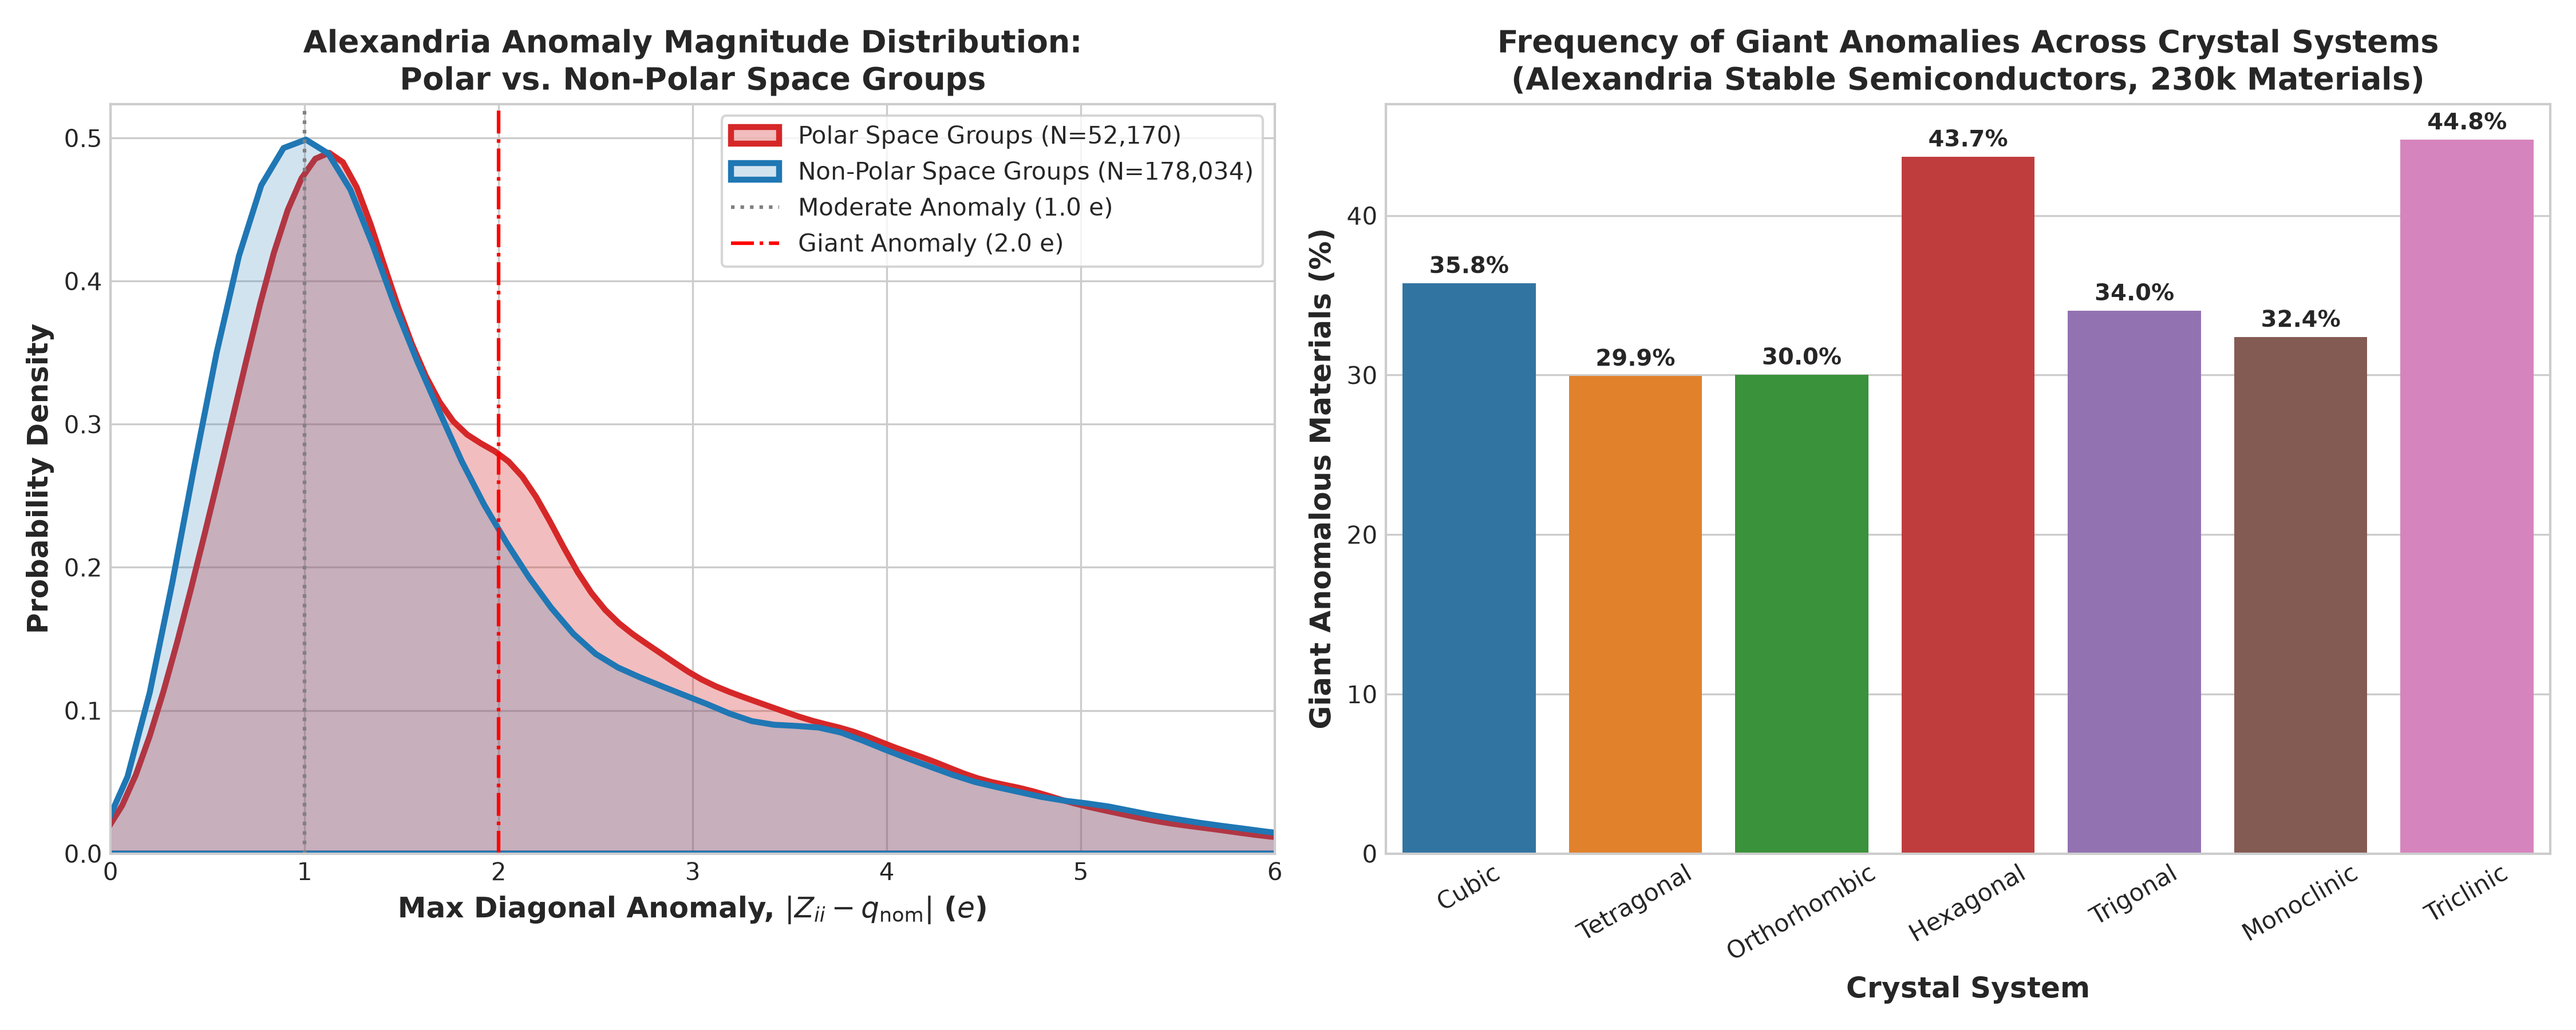
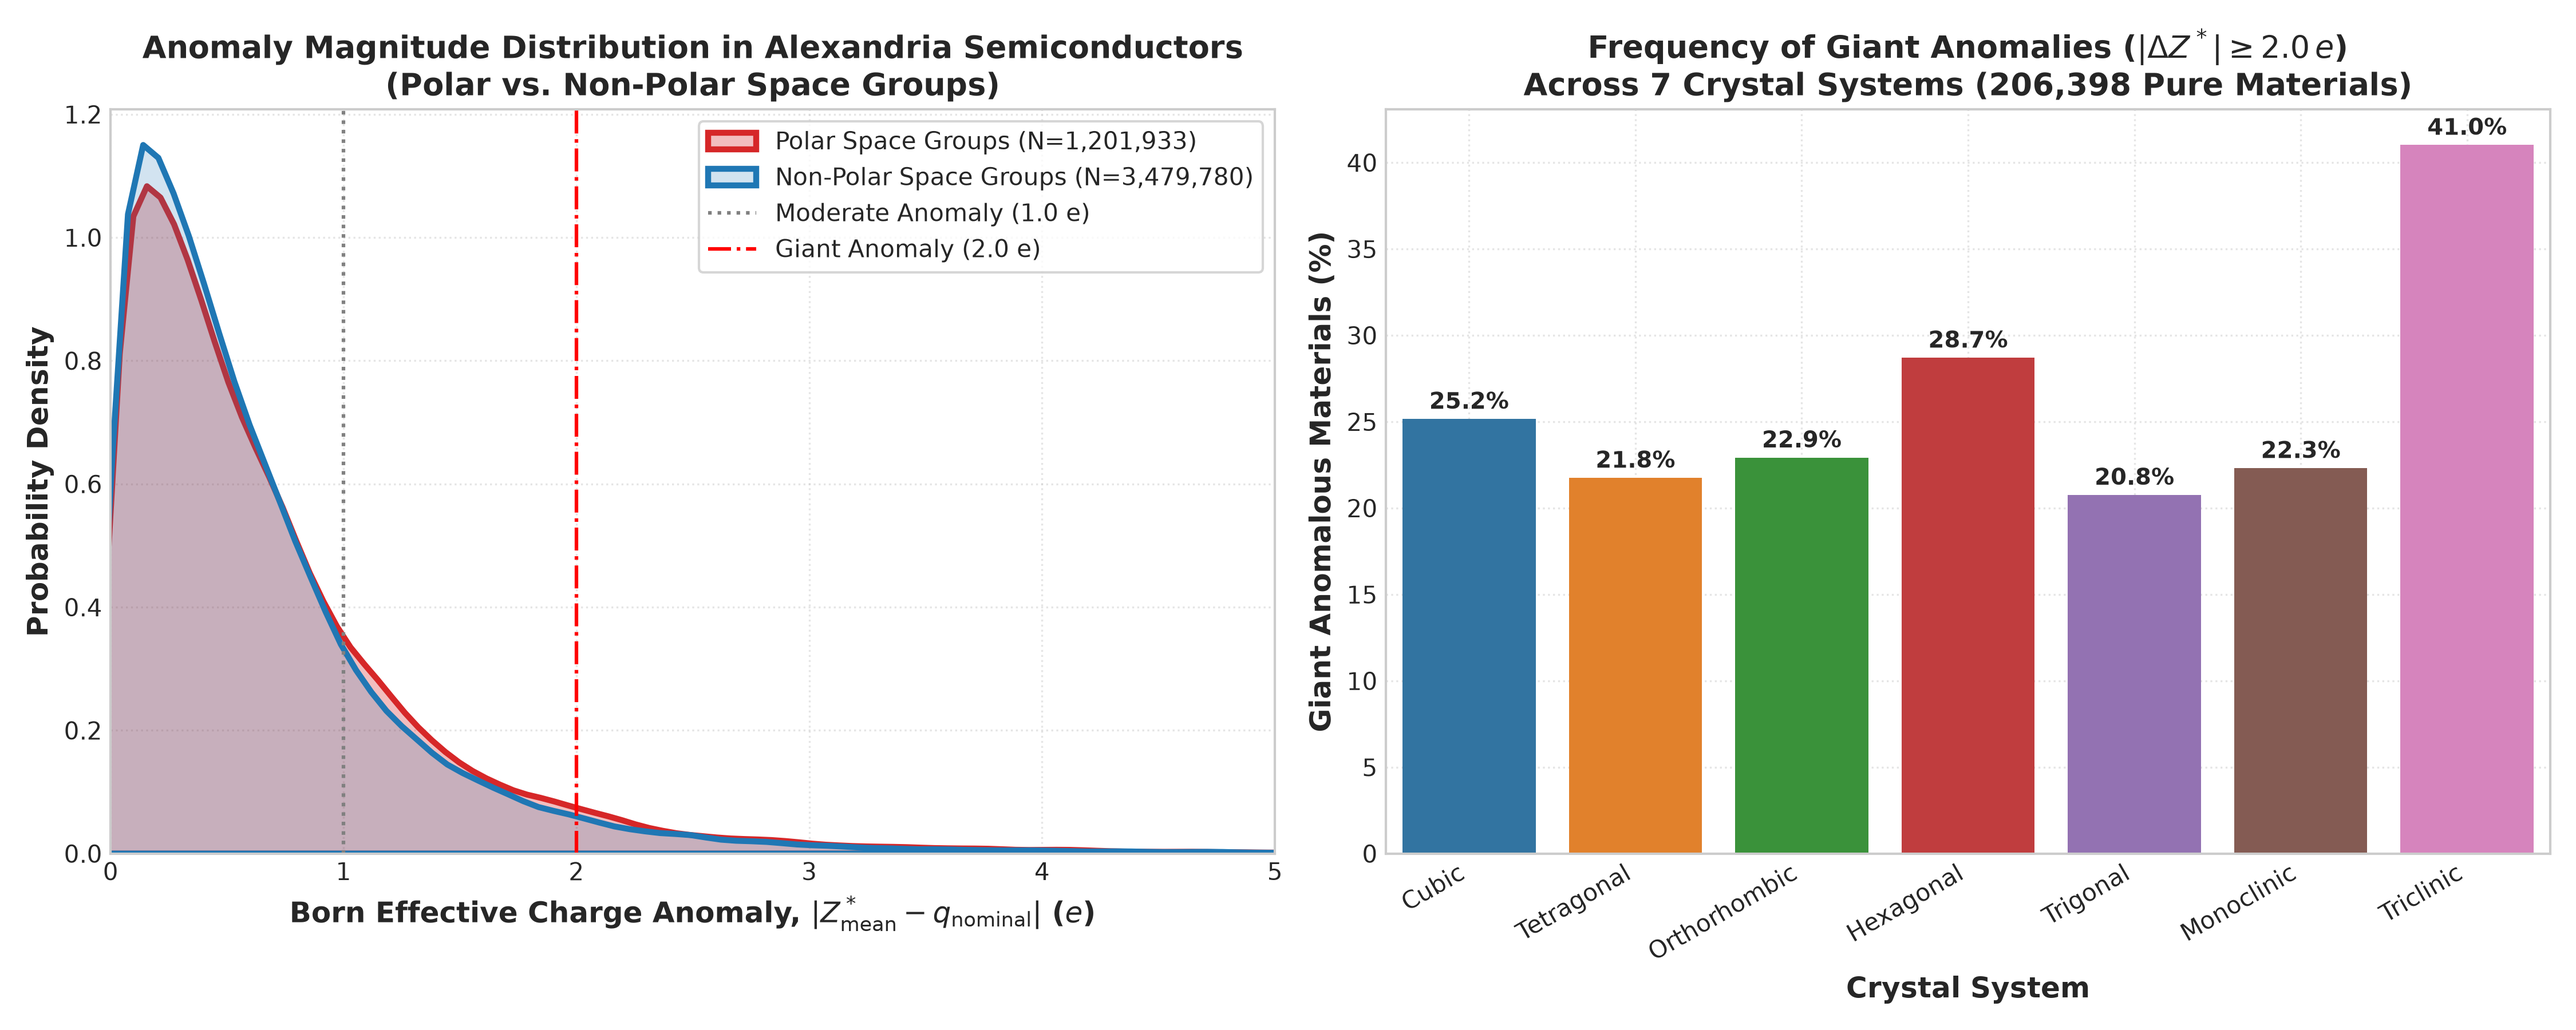
feat: update polar vs non-polar anomaly comparisons for GNoME, Alexandria, and OMat24 using strict pure integer datasets

diff --git a/scripts/generate_strict_pure_polarity_plots.py b/scripts/generate_strict_pure_polarity_plots.py
@@ -1,0 +1,194 @@
+import os
+import gzip
+import numpy as np
+import pandas as pd
+import matplotlib.pyplot as plt
+import seaborn as sns
+
+plt.style.use('seaborn-v0_8-whitegrid' if 'seaborn-v0_8-whitegrid' in plt.style.available else 'default')
+plt.rcParams['font.sans-serif'] = 'DejaVu Sans'
+plt.rcParams['font.family'] = 'sans-serif'
+plt.rcParams['figure.dpi'] = 300
+
+POLAR_SPACE_GROUPS = {
+    1,
+    3, 4, 5, 6, 7, 8, 9,
+    25, 26, 27, 28, 29, 30, 31, 32, 33, 34, 35, 36, 37, 38, 39, 40, 41, 42, 43, 44, 45, 46,
+    75, 76, 77, 78, 79, 80,
+    99, 100, 101, 102, 103, 104, 105, 106, 107, 108, 109, 110,
+    143, 144, 145, 146,
+    156, 157, 158, 159, 160, 161,
+    168, 169, 170, 171, 172, 173,
+    183, 184, 185, 186
+}
+
+crystal_systems = ['Cubic', 'Tetragonal', 'Orthorhombic', 'Hexagonal', 'Trigonal', 'Monoclinic', 'Triclinic']
+palette = {
+    'Cubic': '#1f77b4',
+    'Tetragonal': '#ff7f0e',
+    'Orthorhombic': '#2ca02c',
+    'Hexagonal': '#d62728',
+    'Trigonal': '#9467bd',
+    'Monoclinic': '#8c564b',
+    'Triclinic': '#e377c2'
+}
+
+def generate_strict_polarity_plot(
+    materials_summary_csv,
+    atoms_csv_gz,
+    out_png_path,
+    out_summary_csv,
+    dataset_name
+):
+    print("=" * 80)
+    print(f"GENERATING UPDATED POLAR VS NON-POLAR ANALYSIS: {dataset_name}")
+    print(f"Materials: {materials_summary_csv}")
+    print(f"Atoms: {atoms_csv_gz}")
+    print("=" * 80)
+
+    # 1. Load Materials
+    df_mats = pd.read_csv(materials_summary_csv)
+    print(f"Loaded {len(df_mats):,} strict pure materials.")
+
+    # Determine polarity
+    def is_polar_spg(val):
+        try:
+            return int(float(val)) in POLAR_SPACE_GROUPS
+        except:
+            return False
+
+    df_mats['is_polar'] = df_mats['space_group'].apply(is_polar_spg)
+    df_mats['polarity'] = df_mats['is_polar'].apply(lambda x: 'Polar' if x else 'Non-Polar')
+    df_mats['crystal_system'] = df_mats['crystal_system'].astype(str).str.capitalize()
+    df_mats = df_mats[df_mats['crystal_system'].isin(crystal_systems)].copy()
+
+    # Crystal System Breakdown
+    cryst_summary = []
+    for cs in crystal_systems:
+        sub = df_mats[df_mats['crystal_system'] == cs]
+        n_tot = len(sub)
+        if n_tot == 0:
+            continue
+        n_polar = (sub['is_polar'] == True).sum()
+        n_nonpolar = (sub['is_polar'] == False).sum()
+        n_giant = (sub['is_giant_anomalous_material'] == True).sum()
+        
+        giant_polar = ((sub['is_polar'] == True) & (sub['is_giant_anomalous_material'] == True)).sum()
+        giant_nonpolar = ((sub['is_polar'] == False) & (sub['is_giant_anomalous_material'] == True)).sum()
+
+        cryst_summary.append({
+            'Crystal System': cs,
+            'Total Materials': n_tot,
+            'Polar Materials': n_polar,
+            'Non-Polar Materials': n_nonpolar,
+            'Polar %': round(n_polar / n_tot * 100, 1),
+            'Giant Anomalous Materials': n_giant,
+            'Giant %': round(n_giant / n_tot * 100, 2),
+            'Giant in Polar': giant_polar,
+            'Giant in Non-Polar': giant_nonpolar
+        })
+
+    df_cryst_summary = pd.DataFrame(cryst_summary)
+    print("\n--- Crystal System Breakdown ---")
+    print(df_cryst_summary.to_string(index=False))
+
+    os.makedirs(os.path.dirname(out_summary_csv), exist_ok=True)
+    df_cryst_summary.to_csv(out_summary_csv, index=False)
+    print(f"Saved polarity summary CSV -> {out_summary_csv}")
+
+    # 2. Load Atoms for KDE Distribution Plot
+    print(f"\nLoading atom-level records for anomaly distribution KDE...")
+    df_atoms = pd.read_csv(atoms_csv_gz, compression="gzip", usecols=['material_id', 'delta_z'])
+    
+    # Merge polarity from materials
+    mat_pol_map = dict(zip(df_mats['material_id'].astype(str), df_mats['is_polar']))
+    df_atoms['is_polar'] = df_atoms['material_id'].astype(str).map(mat_pol_map)
+    df_atoms = df_atoms.dropna(subset=['is_polar']).copy()
+    df_atoms['is_polar'] = df_atoms['is_polar'].astype(bool)
+
+    polar_deltas = df_atoms[df_atoms['is_polar'] == True]['delta_z']
+    nonpolar_deltas = df_atoms[df_atoms['is_polar'] == False]['delta_z']
+    print(f"Polar atoms: {len(polar_deltas):,} | Non-Polar atoms: {len(nonpolar_deltas):,}")
+
+    # Subsample if extremely large for fast, smooth KDE
+    max_kde_samples = 150000
+    if len(polar_deltas) > max_kde_samples:
+        polar_sample = polar_deltas.sample(max_kde_samples, random_state=42)
+    else:
+        polar_sample = polar_deltas
+
+    if len(nonpolar_deltas) > max_kde_samples:
+        nonpolar_sample = nonpolar_deltas.sample(max_kde_samples, random_state=42)
+    else:
+        nonpolar_sample = nonpolar_deltas
+
+    # 3. Create High-Resolution 2-Panel Figure
+    fig, (ax1, ax2) = plt.subplots(1, 2, figsize=(15, 6))
+
+    # Left: KDE distribution of Delta Z
+    sns.kdeplot(polar_sample, ax=ax1, color='#d62728', lw=2.5, fill=True, alpha=0.3, label=f'Polar Space Groups (N={len(polar_deltas):,})')
+    sns.kdeplot(nonpolar_sample, ax=ax1, color='#1f77b4', lw=2.5, fill=True, alpha=0.2, label=f'Non-Polar Space Groups (N={len(nonpolar_deltas):,})')
+
+    ax1.axvline(1.0, color='gray', ls=':', lw=1.5, label='Moderate Anomaly (1.0 e)')
+    ax1.axvline(2.0, color='red', ls='-.', lw=1.5, label='Giant Anomaly (2.0 e)')
+    ax1.set_xlim(0, 5.0)
+    ax1.set_xlabel('Born Effective Charge Anomaly, $|Z^*_{\\mathrm{mean}} - q_{\\mathrm{nominal}}|$ ($e$)', fontsize=12, fontweight='bold')
+    ax1.set_ylabel('Probability Density', fontsize=12, fontweight='bold')
+    ax1.set_title(f'Anomaly Magnitude Distribution in {dataset_name}\n(Polar vs. Non-Polar Space Groups)', fontsize=13, fontweight='bold')
+    ax1.legend(loc='upper right', frameon=True, fontsize=10)
+    ax1.grid(True, linestyle=':', alpha=0.5)
+
+    # Right: Bar plot of Giant Anomaly % by Crystal System
+    sns.barplot(
+        data=df_cryst_summary,
+        x='Crystal System',
+        y='Giant %',
+        ax=ax2,
+        palette=palette
+    )
+    ax2.set_ylabel('Giant Anomalous Materials (%)', fontsize=12, fontweight='bold')
+    ax2.set_xlabel('Crystal System', fontsize=12, fontweight='bold')
+    ax2.set_title(f'Frequency of Giant Anomalies ($|\\Delta Z^*| \\geq 2.0\\,e$)\nAcross 7 Crystal Systems ({len(df_mats):,} Pure Materials)', fontsize=13, fontweight='bold')
+    ax2.set_xticklabels(ax2.get_xticklabels(), rotation=30, ha='right', fontsize=10)
+    ax2.grid(True, linestyle=':', alpha=0.5)
+
+    for p in ax2.patches:
+        h = p.get_height()
+        ax2.annotate(f"{h:.1f}%", 
+                     (p.get_x() + p.get_width() / 2., h),
+                     ha='center', va='bottom', fontsize=9.5, fontweight='bold', xytext=(0, 2),
+                     textcoords='offset points')
+
+    plt.tight_layout()
+    os.makedirs(os.path.dirname(out_png_path), exist_ok=True)
+    plt.savefig(out_png_path, dpi=300)
+    plt.close()
+    print(f"Saved updated polarity plot -> {out_png_path}\n")
+
+if __name__ == "__main__":
+    # 1. GNoME
+    generate_strict_polarity_plot(
+        materials_summary_csv="/home/vibhan23/gnome/gnome_strict_pure_integer_compounds_summary.csv",
+        atoms_csv_gz="/home/vibhan23/gnome/gnome_strict_pure_integer_atoms_data.csv.gz",
+        out_png_path="/home/vibhan23/gnome/plots/gnome_polar_vs_nonpolar_anomaly_comparison.png",
+        out_summary_csv="/home/vibhan23/gnome/gnome_crystal_system_polarity_anomaly_summary.csv",
+        dataset_name="GNoME Stable Semiconductors"
+    )
+
+    # 2. Alexandria
+    generate_strict_polarity_plot(
+        materials_summary_csv="/home/vibhan23/alexandria/alexandria_strict_pure_integer_compounds_summary.csv",
+        atoms_csv_gz="/home/vibhan23/alexandria/alexandria_strict_pure_integer_atoms_data.csv.gz",
+        out_png_path="/home/vibhan23/alexandria/plots/alexandria_polar_vs_nonpolar_anomaly_comparison.png",
+        out_summary_csv="/home/vibhan23/alexandria/alexandria_crystal_system_polarity_anomaly_summary.csv",
+        dataset_name="Alexandria Semiconductors"
+    )
+
+    # 3. OMat24
+    generate_strict_polarity_plot(
+        materials_summary_csv="/home/vibhan23/omat24/omat24_strict_pure_integer_compounds_summary.csv",
+        atoms_csv_gz="/home/vibhan23/omat24/omat24_strict_pure_integer_atoms_data.csv.gz",
+        out_png_path="/home/vibhan23/omat24/plots/omat24_polar_vs_nonpolar_anomaly_comparison.png",
+        out_summary_csv="/home/vibhan23/omat24/omat24_crystal_system_polarity_anomaly_summary.csv",
+        dataset_name="OMat24 Verified Semiconductors"
+    )
